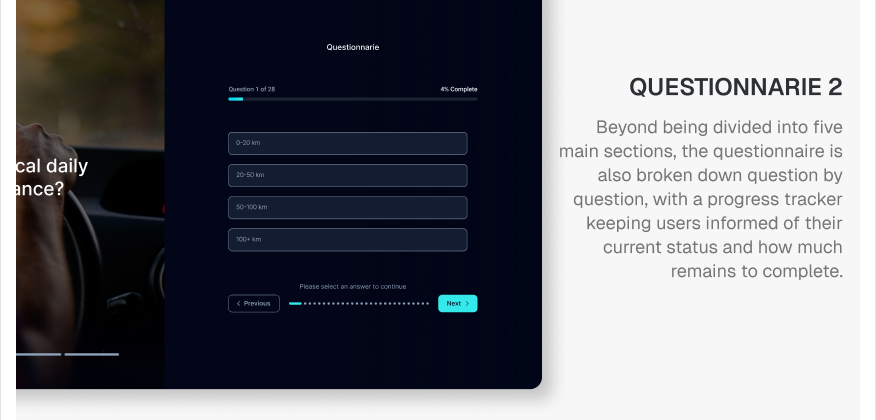
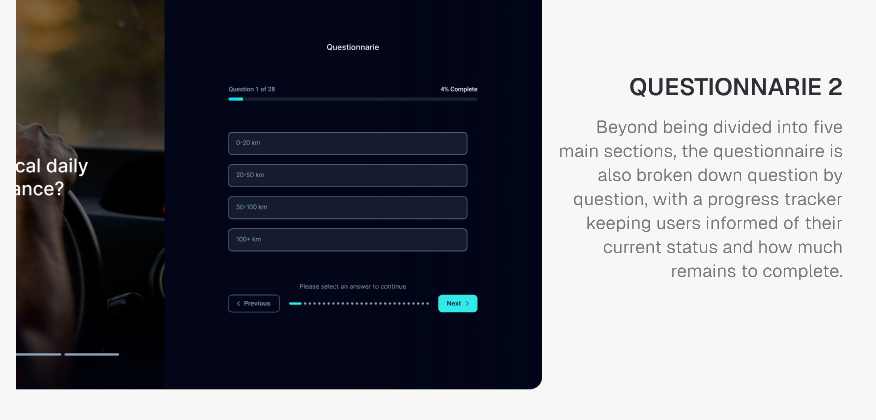
UI fixes

Changed region(s): [[0.0, 0.0, 0.6473, 0.9595], [0.7397, 0.3405, 0.7705, 0.3714], [0.6781, 0.4024, 0.7089, 0.4333]]

diff --git a/src/components/work/ChatbotProject/ChatbotMiddle.tsx b/src/components/work/ChatbotProject/ChatbotMiddle.tsx
@@ -35,17 +35,17 @@ const hoverCards = [
   {
     title: "Progressive disclosure",
     description:
-      "Combined open chat input with suggested prompts to support both exploratory and goal-oriented behaviors.",
+      "Information unfolds naturally as the conversation develops, revealing just what's needed at each step so users are never overwhelmed.",
   },
   {
     title: "Structured Responses",
     description:
-      "Combined open chat input with suggested prompts to support both exploratory and goal-oriented behaviors.",
+      "Answers go beyond plain text, turning structured output into rich, UI-friendly components that are easy to scan and act on.",
   },
   {
     title: "Human-Centered",
     description:
-      "Combined open chat input with suggested prompts to support both exploratory and goal-oriented behaviors.",
+      "Every interaction is designed around real user needs, keeping the tone warm, supportive, and reassuring throughout the journey.",
   },
 ];
 
@@ -133,9 +133,9 @@ export default function ChatbotMiddle() {
               <div className="p-16 bg-[#2f80eb] flex items-center justify-center">
                 <video src={chatbotUserFlow1} autoPlay loop muted playsInline className="w-3/4 h-full object-cover " />
               </div>,
-              <div className="flex flex-col h-full pt-12  items-center text-center px-12 bg-[#F7F7F7]">
-                <p className="font-inter font-semibold text-[#1D75E7] text-[80px] tracking-[-0.42px] mb-12">1</p>
-                <p className="font-inter text-[13px] text-cod-gray font-bold tracking-[-0.42px] leading-normal mt-1 mb-8">
+              <div className="flex flex-col h-full pt-12 items-center text-center px-12 bg-[#F7F7F7]">
+                <p className="font-inter font-semibold text-[#1D75E7] text-[80px] tracking-[-0.42px] mb-6">1</p>
+                <p className="font-inter text-[13px] text-cod-gray font-bold tracking-[-0.42px] leading-normal mt-1 mb-4">
                   ONBOARDING & FIRST INTERACTION
                 </p>
                 <p className="font-inter text-[13px] text-boulder tracking-[-0.42px] leading-normal mt-1">

diff --git a/src/components/work/ElectrifyProject/ElectrifyMiddle.tsx b/src/components/work/ElectrifyProject/ElectrifyMiddle.tsx
@@ -204,7 +204,7 @@ export default function ElectrifyMiddle() {
 
             {/* UI guidelines */}
             <FadeIn delay={550}>
-                <div className="flex flex-col gap-12">
+                <div className="flex flex-col gap-12 bg-[#F7F7F7] p-12">
                     <p className="font-inter font-semibold text-[38px] text-cod-gray tracking-[-0.42px] text-center">
                         UI Guidelines
                     </p>

diff --git a/src/components/work/EbuddyProject/EbuddyMiddle.tsx b/src/components/work/EbuddyProject/EbuddyMiddle.tsx
@@ -328,7 +328,7 @@ export default function EbuddyMiddle() {
 
             {/* UI guidelines */}
             <FadeIn delay={600}>
-                <div className="flex flex-col gap-12">
+                <div className="flex flex-col gap-12 bg-[#F7F7F7] p-12">
                     <p className="font-inter font-semibold text-[38px] text-cod-gray tracking-[-0.42px] text-center">
                         UI Guidelines
                     </p>

diff --git a/src/components/work/SaasProject/SaasMiddle.tsx b/src/components/work/SaasProject/SaasMiddle.tsx
@@ -336,7 +336,7 @@ export default function SaasMiddle() {
 
             {/* UI Guidelines */}
             <FadeIn delay={700}>
-                <div className="flex flex-col gap-12">
+                <div className="flex flex-col gap-12 bg-[#F7F7F7] p-12">
                     <p className="font-inter font-semibold text-[38px] text-cod-gray tracking-[-0.42px] text-center">
                         UI Guidelines
                     </p>
